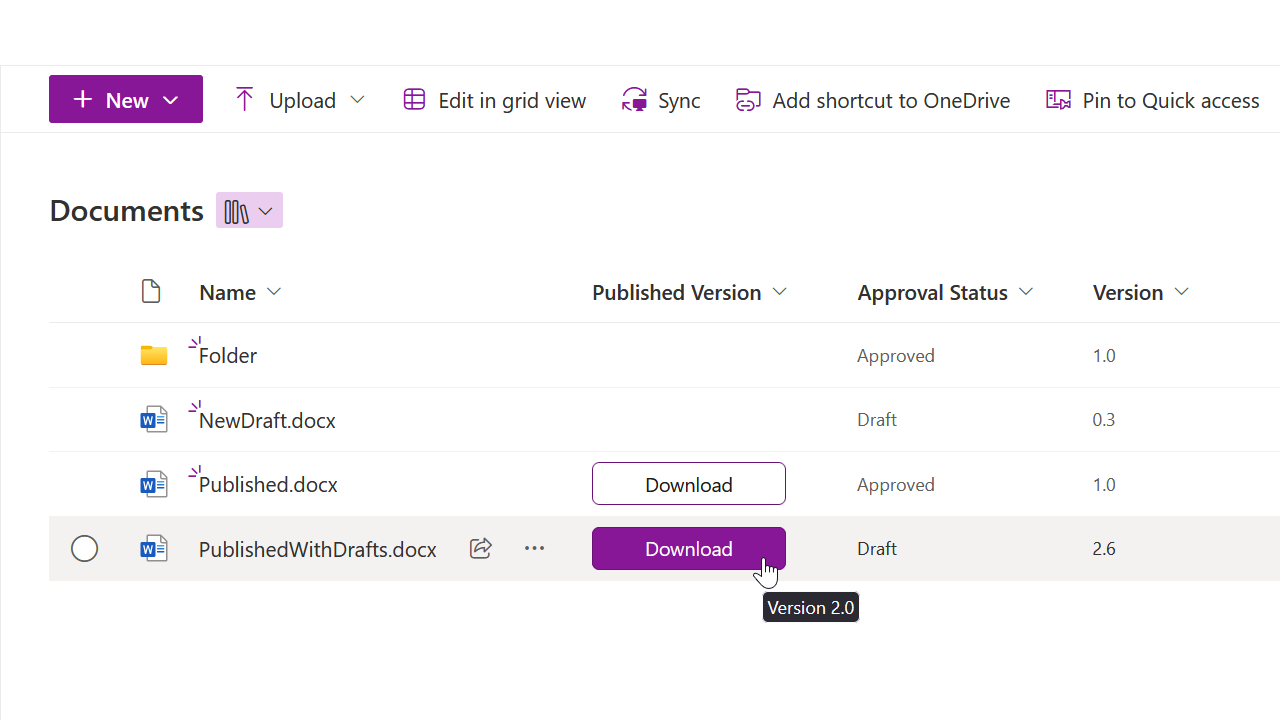
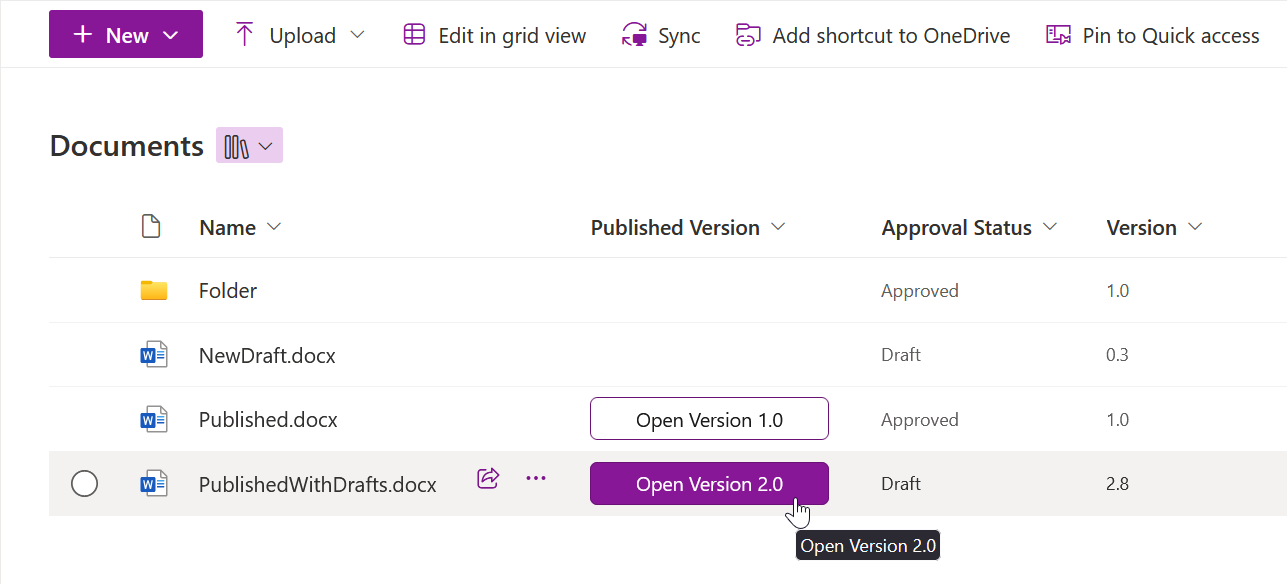
Updated generic-published-version sample - changed the button label and screenshot, and added a note about behavior in different browsers

diff --git a/column-samples/generic-published-version/README.md b/column-samples/generic-published-version/README.md
@@ -1,9 +1,11 @@
 # Published Version
 
 ## Summary
-This sample creates a button for downloading the currently published version of a document. The sample is supposed to be used in a SharePoint Online document library with minor versions enabled. Button is displayed for every document with a published version, i.e., version at least 1.0. It is linked to the latest published version of the document - for example, if the latest draft of the document is at version 2.6, the button downloads version 2.0.
+This sample creates a button for opening the currently published version of a document. The sample is supposed to be used in a SharePoint Online document library with minor versions enabled. Button is displayed for every document with a published version, i.e., at version at least 1.0. It is linked to the latest published version of the document - for example, if the latest draft of the document is at version 2.8, the button opens version 2.0.
 
 ![screenshot of the sample](./assets/screenshot.png)
+
+> The behavior of the button varies in different browsers and for different file types. For Office documents in **Microsoft Edge**, the button opens the file directly from SharePoint in the installed app. In other browsers, the button usually downloads the document, optionally opening it after download, based on settings.
 
 ## View requirements
 - This format can be applied to any column type
@@ -18,7 +20,7 @@ generic-published-version.json | [Miroslav Kačena](https://github.com/mkacena) 
 
 Version|Date|Comments
 -------|----|--------
-1.0|September 29, 2024|Initial release
+1.0|October 7, 2024|Initial release
 
 ## Disclaimer
 
